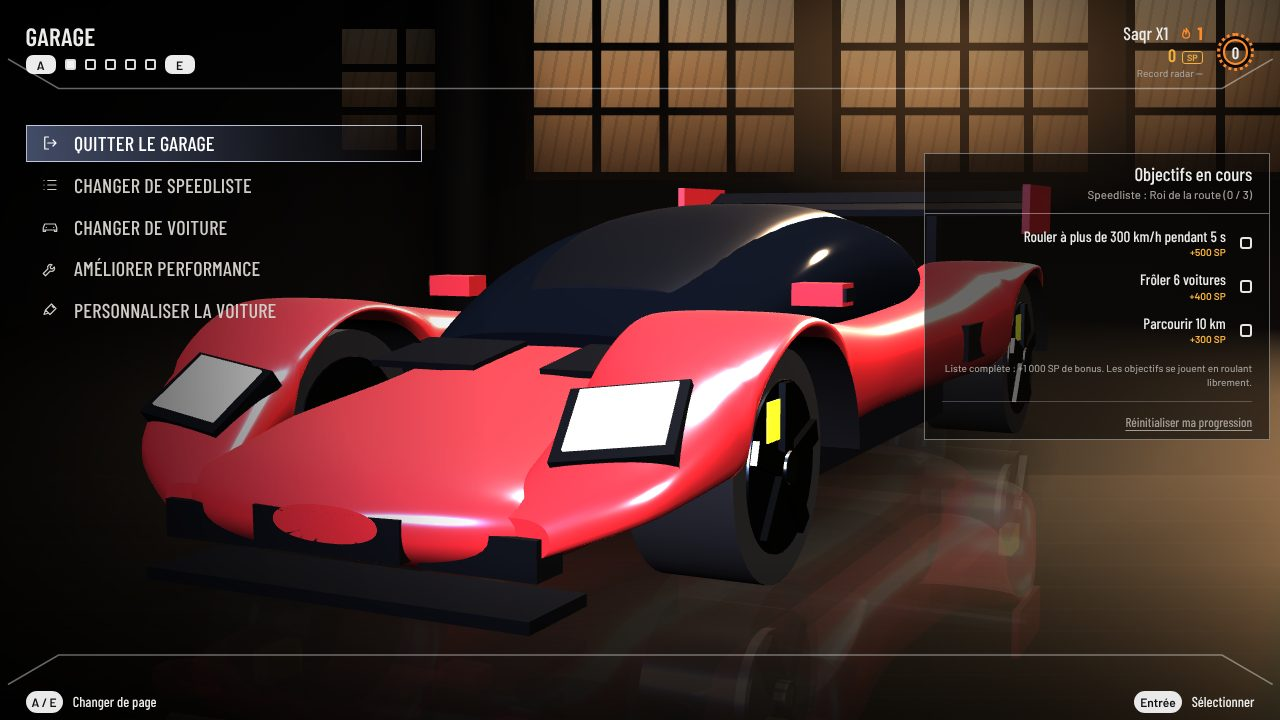
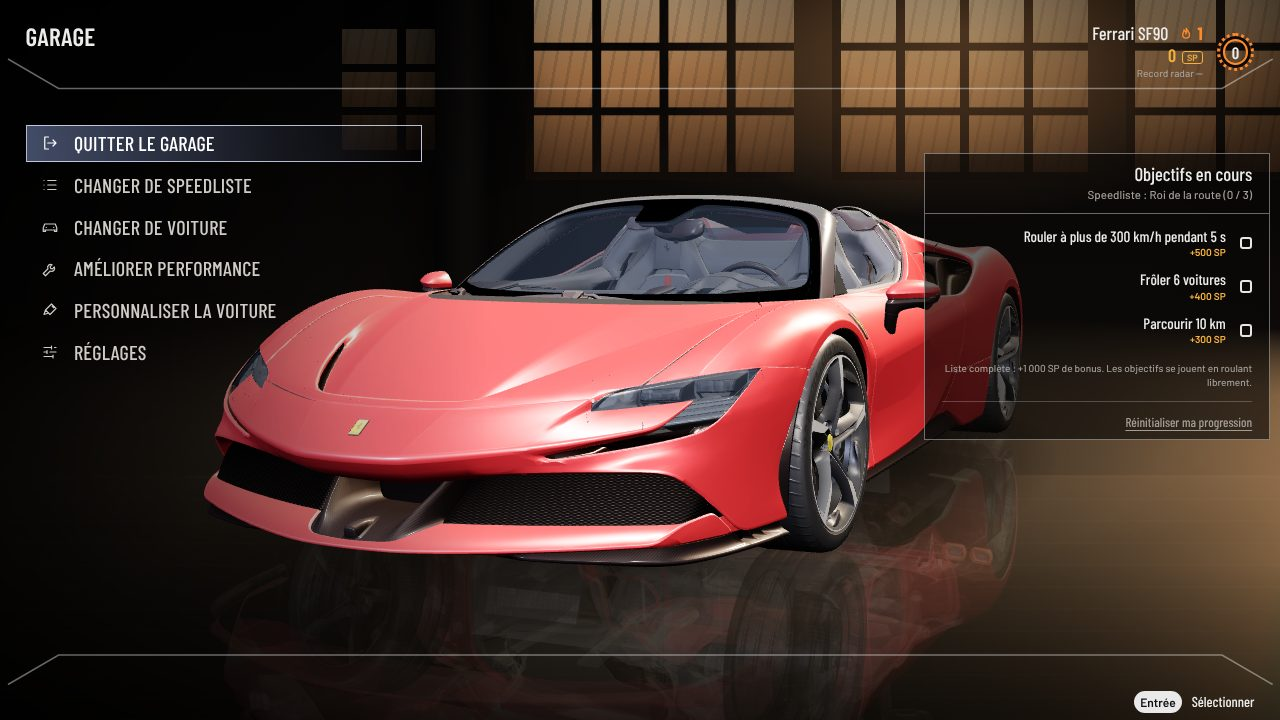
NFS : capture avec la Ferrari SF90 et description mise à jour
Claude-Session: https://claude.ai/code/session_01Grt3MVBdxdPXStWS5uGnmP

diff --git a/index.html b/index.html
@@ -376,7 +376,7 @@
       {
         nom: "NFS Dubai Ultimate", emoji: "🏎", image: "img/nfs-game.jpg", glow: "255, 92, 60",
         lien: "nfs-game", tags: ["3D", "Monde ouvert", "Conduite"],
-        texte: "Un jeu de conduite 3D en monde ouvert : roule librement sur une grande carte avec des routes sinueuses, des montagnes, des lacs et un ciel après la pluie. Enchaîne drifts, hautes vitesses et frôlements du trafic pour gagner des SP, flashe les radars, utilise le nitro et suis le GPS jusqu'aux planques. Dans le garage, améliore ta SAQR X1 (moteur, turbo, pneus), change sa peinture et remplis les objectifs des Speedlistes."
+        texte: "Un jeu de conduite 3D en monde ouvert : roule librement sur une grande carte avec des routes sinueuses, des montagnes, des lacs et un ciel après la pluie. Enchaîne drifts, hautes vitesses et frôlements du trafic pour gagner des SP, flashe les radars, utilise le nitro et suis le GPS jusqu'aux planques. Dans le garage, conduis une vraie Ferrari SF90 Spider en 3D, améliore-la (moteur, turbo, pneus), change sa peinture et remplis les objectifs des Speedlistes."
       },
       {
         nom: "Survival Battle", emoji: "🧟", image: "img/survival-battle.jpg", glow: "160, 110, 255",
